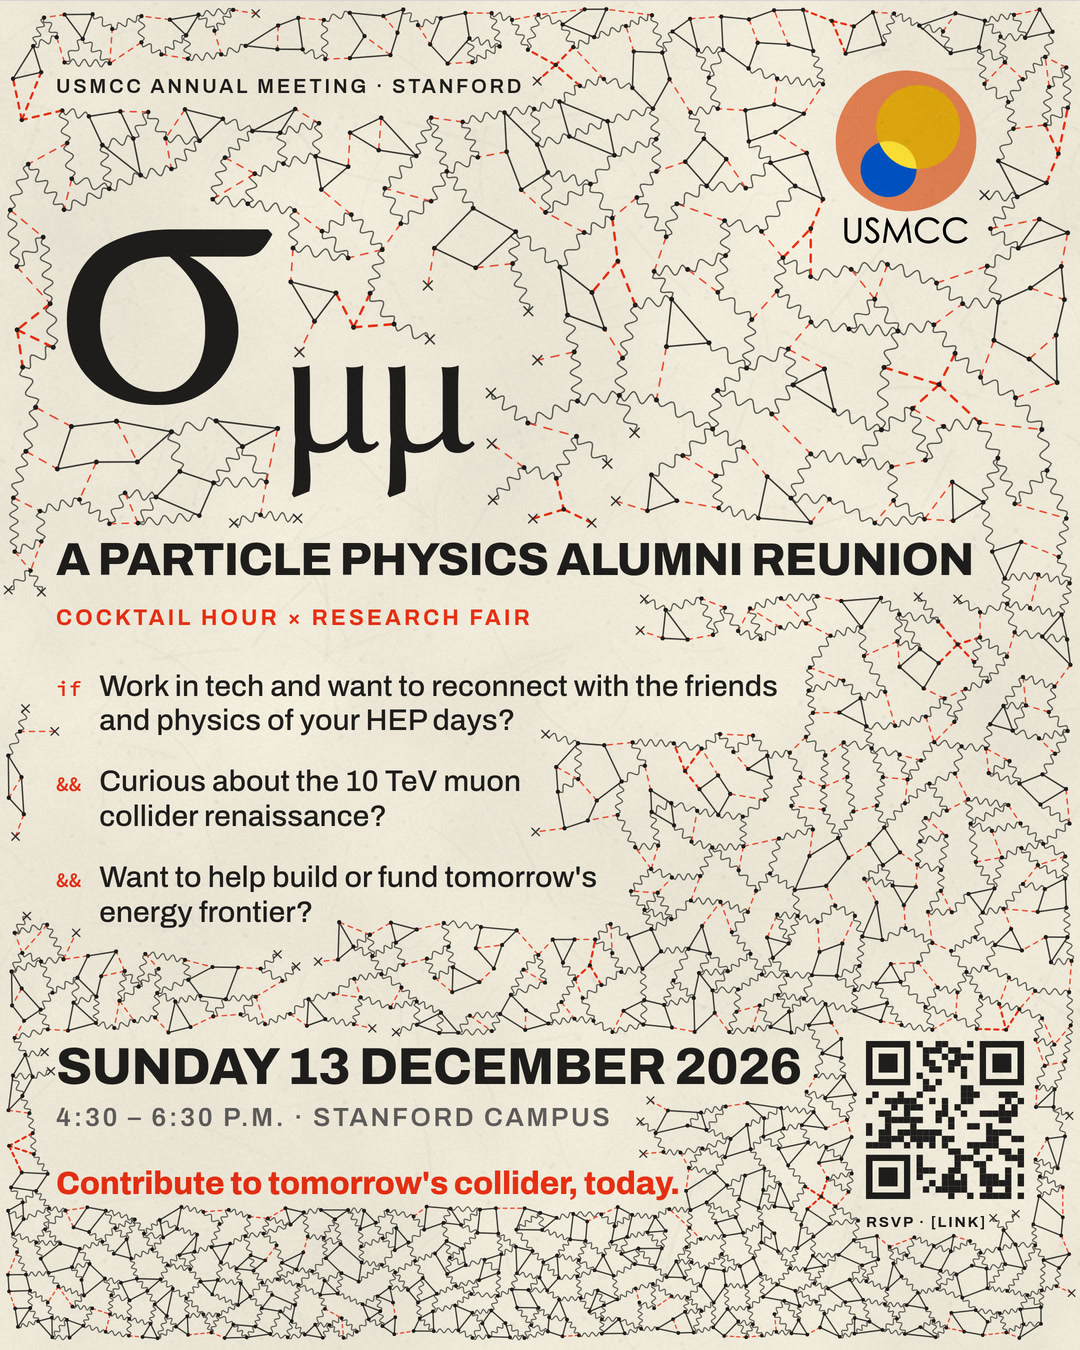
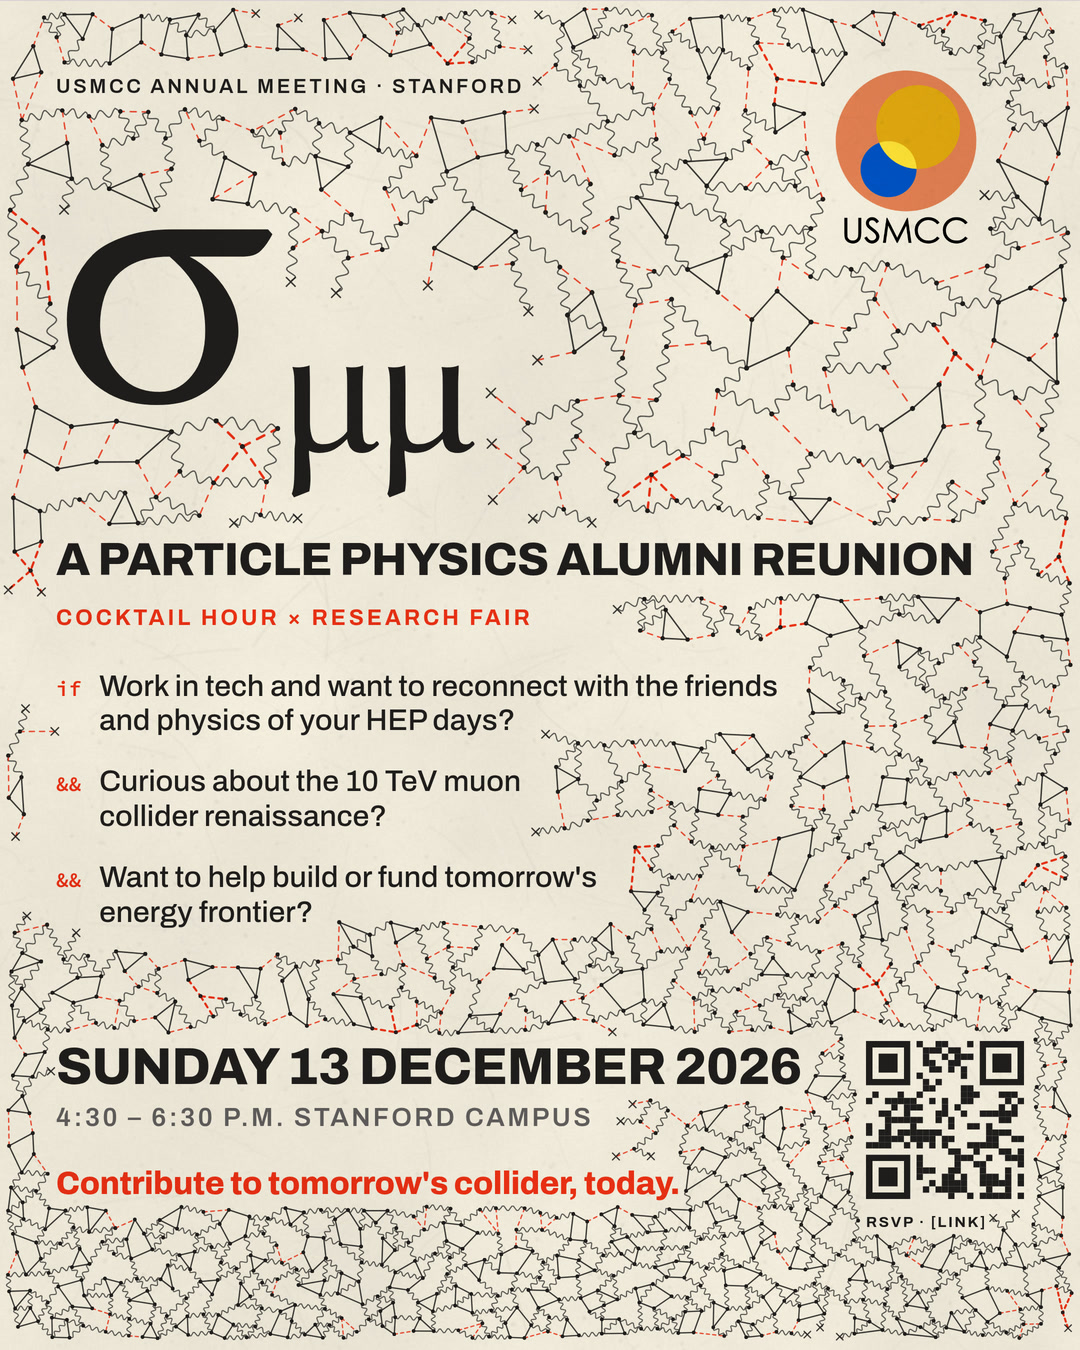
Drop the separator between the time and the venue
Claude-Session: https://claude.ai/code/session_01BjD9eBbTwFN6BRZeeU9uPk

diff --git a/design/Sigma Mu Mu Network.dc.html b/design/Sigma Mu Mu Network.dc.html
@@ -57,7 +57,7 @@ a:hover { color: var(--color-accent); }
 
 <div data-zone="text" style="position:absolute;left:64px;top:1306px;width:782px;z-index:2">
 <div style="font-size:50px;line-height:1;font-weight:800;letter-spacing:-.015em;text-transform:uppercase">Sunday 13 December 2026</div>
-<div data-zone="text" data-pad="15" style="margin-top:4px;font-size:22px;font-weight:600;letter-spacing:.1em;text-transform:uppercase;color:var(--color-neutral-700)">4:30 – 6:30 p.m. · Stanford Campus</div>
+<div data-zone="text" data-pad="15" style="margin-top:4px;font-size:22px;font-weight:600;letter-spacing:.1em;text-transform:uppercase;color:var(--color-neutral-700)">4:30 – 6:30 p.m. Stanford Campus</div>
 <div style="margin-top:26px;font-size:28px;font-weight:800;letter-spacing:-.01em;color:var(--color-accent)">Contribute to tomorrow's collider, today.</div>
 <div style="margin-top:16px;font-size:12px;line-height:1.5;font-weight:500;color:var(--color-neutral-700);max-width:700px;text-wrap:pretty">Cash bar with a sponsored drink-ticket program. Sponsorship keeps the mixer free for every industry guest — get in touch about sponsorship and recruiting opportunities.</div>
 </div>
@@ -96,7 +96,7 @@ a:hover { color: var(--color-accent); }
 
 <div data-zone="text" style="position:absolute;left:56px;top:1040px;width:780px;z-index:2">
 <div style="font-size:52px;line-height:1;font-weight:800;letter-spacing:-.015em;text-transform:uppercase">Sunday 13 December 2026</div>
-<div data-zone="text" data-pad="17" style="margin-top:4px;font-size:26px;font-weight:600;letter-spacing:.1em;text-transform:uppercase;color:var(--color-neutral-700)">4:30 – 6:30 p.m. · Stanford Campus</div>
+<div data-zone="text" data-pad="17" style="margin-top:4px;font-size:26px;font-weight:600;letter-spacing:.1em;text-transform:uppercase;color:var(--color-neutral-700)">4:30 – 6:30 p.m. Stanford Campus</div>
 <div style="margin-top:22px;font-size:32px;font-weight:800;letter-spacing:-.01em;color:var(--color-accent)">Contribute to tomorrow's collider, today.</div>
 </div>
 
